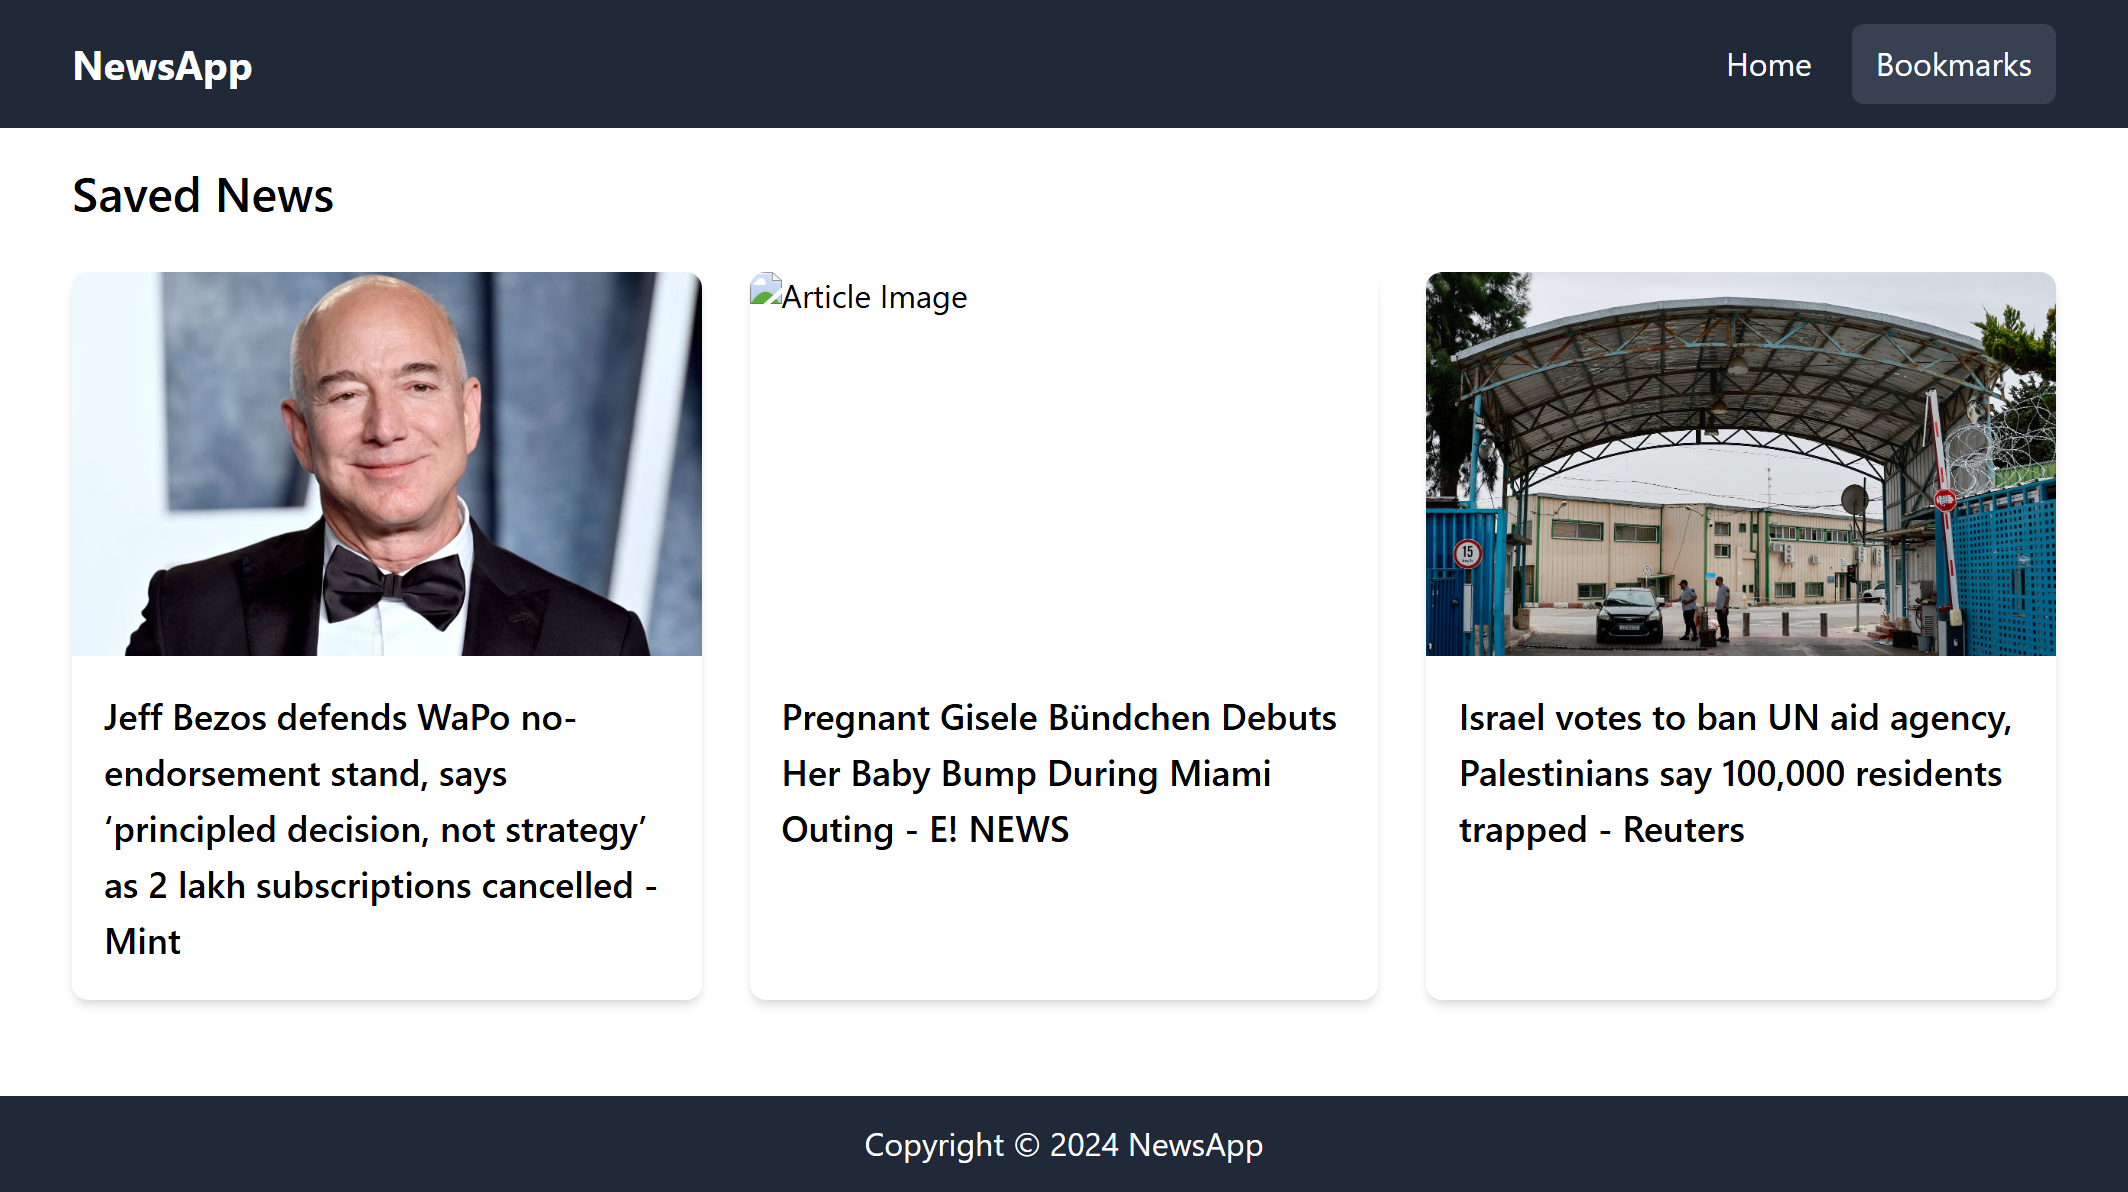
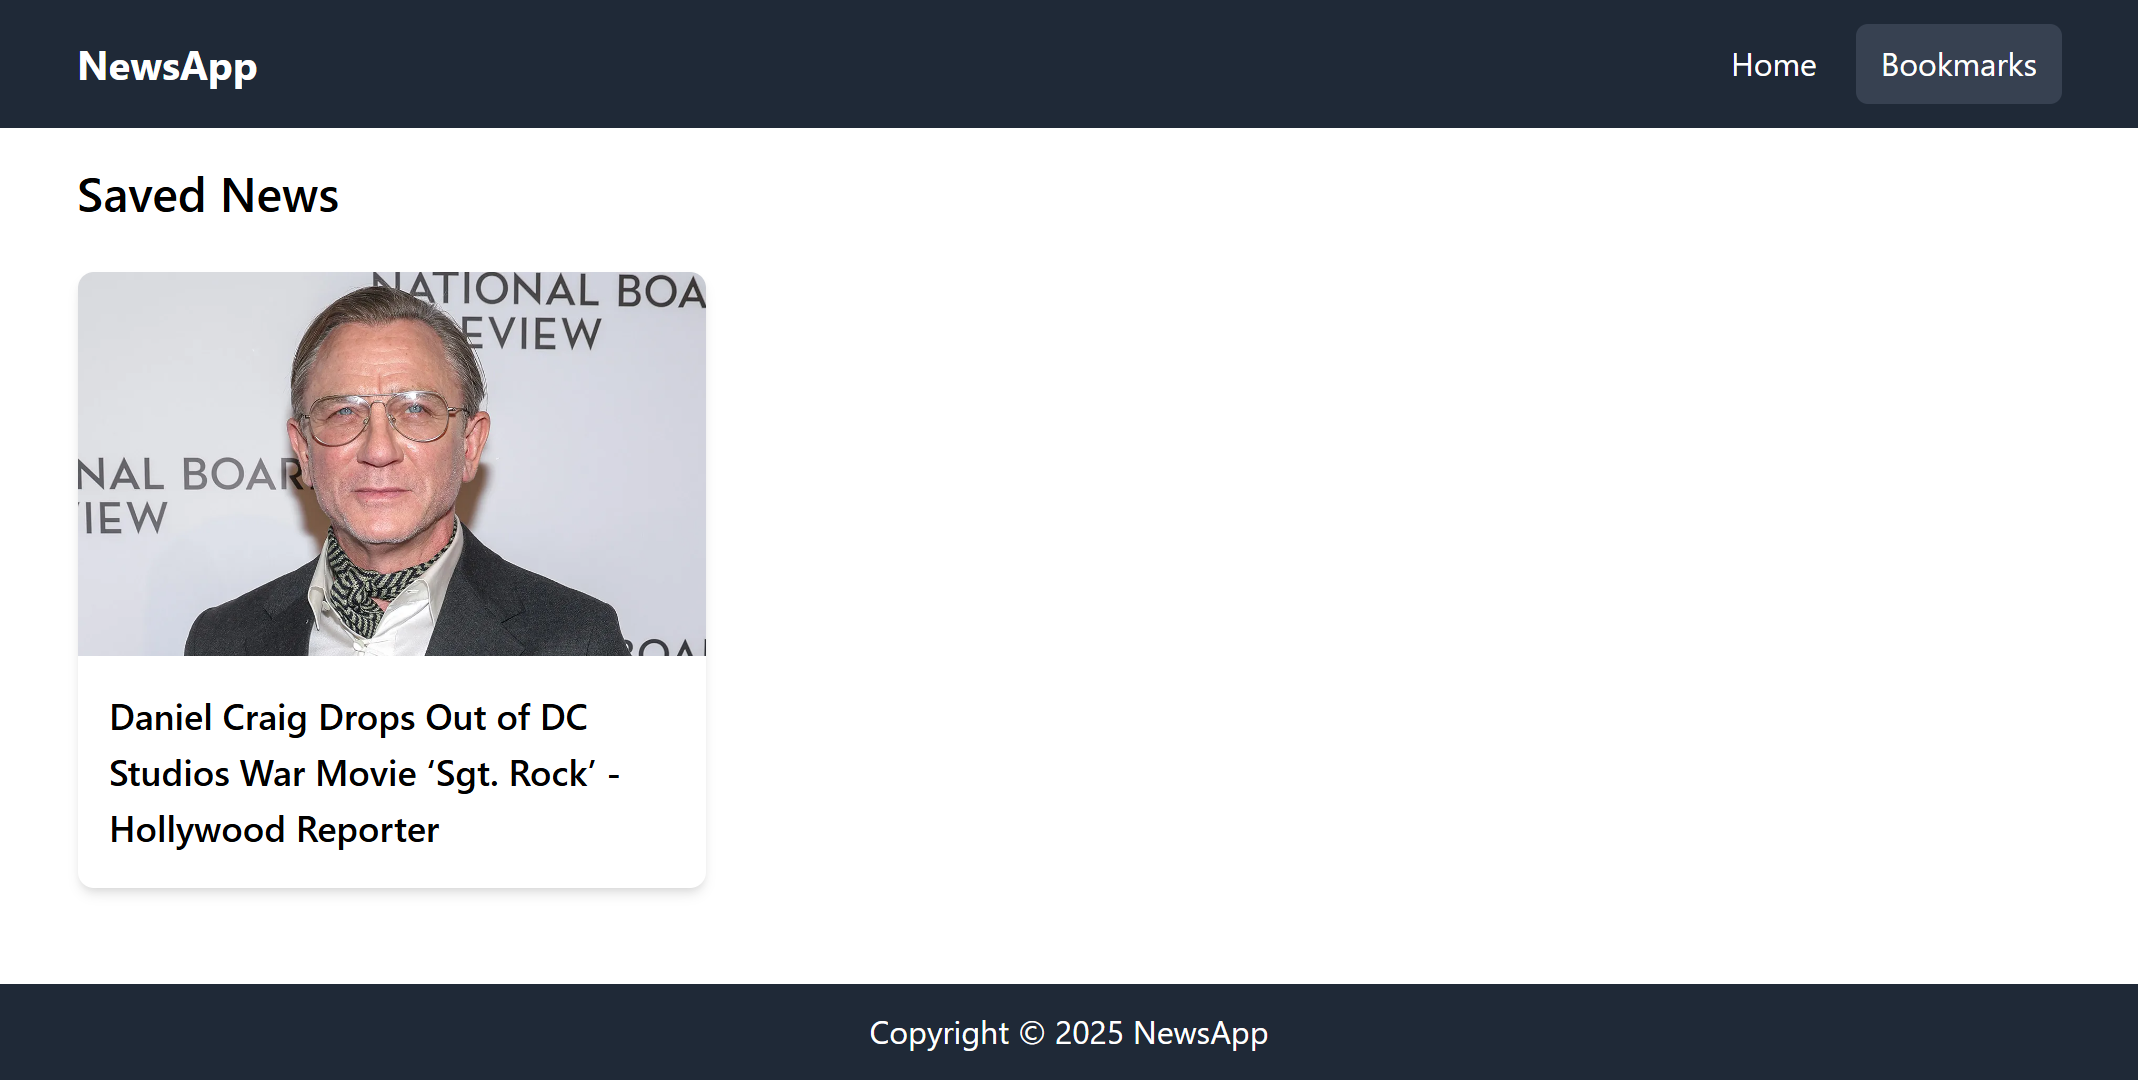
first commit

diff --git a/src/components/Footer.vue b/src/components/Footer.vue
@@ -1,7 +1,7 @@
 <template>
     <footer class="bg-gray-800 text-white mt-8">
       <div class="container flex justify-center mx-auto py-3 lg:max-w-[1200px]">
-            <p>Copyright © 2024 NewsApp </p>
+            <p>Copyright © 2025 NewsApp </p>
       </div>
     </footer>
 </template>
